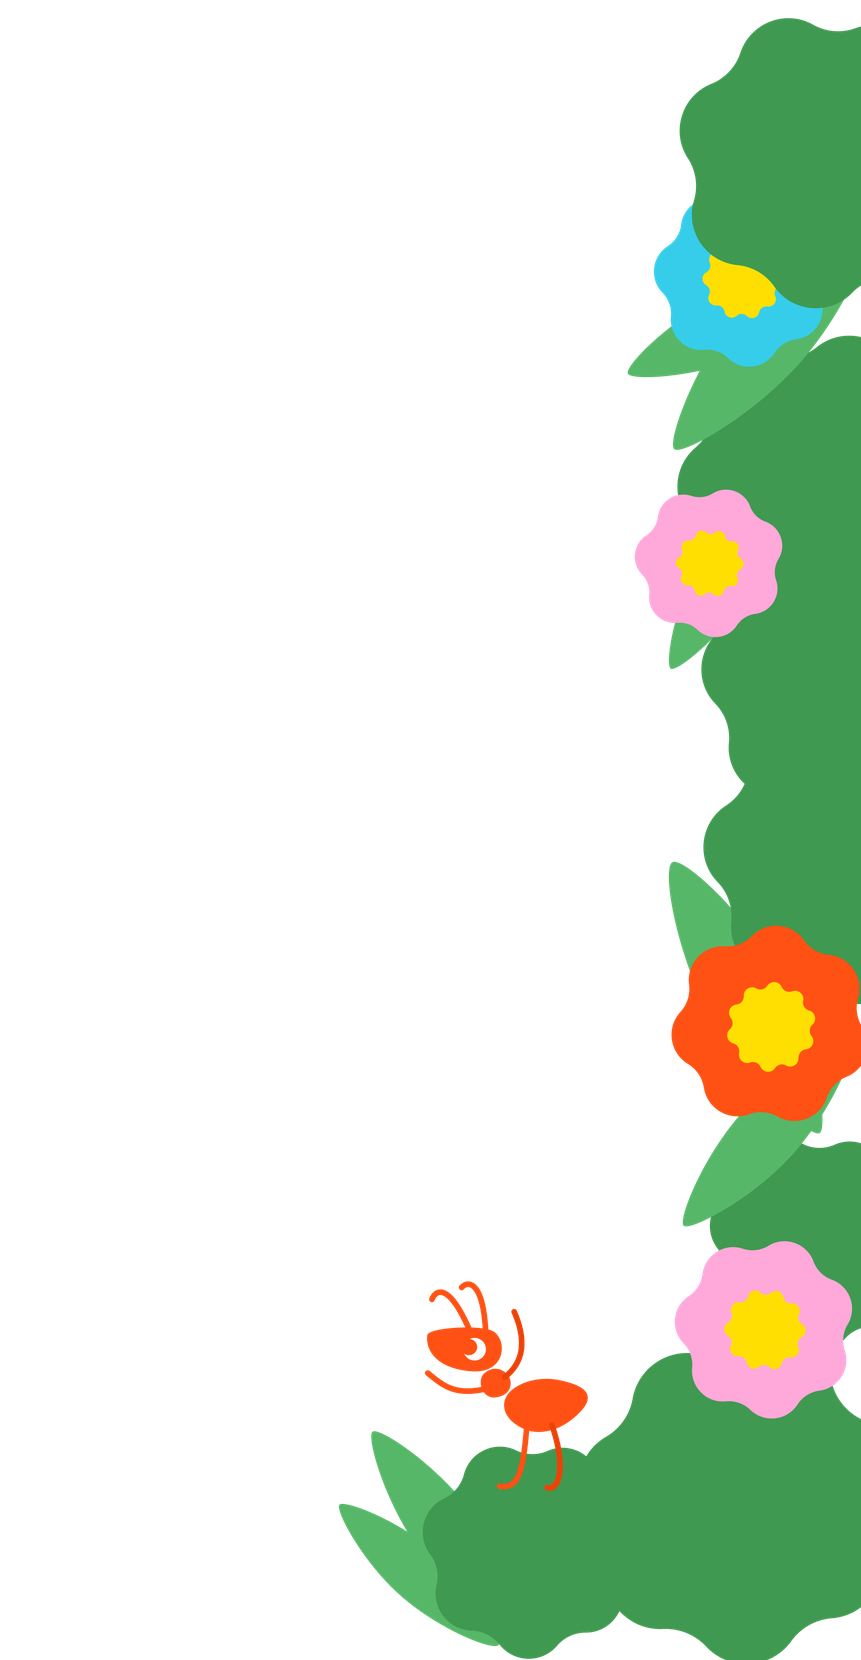
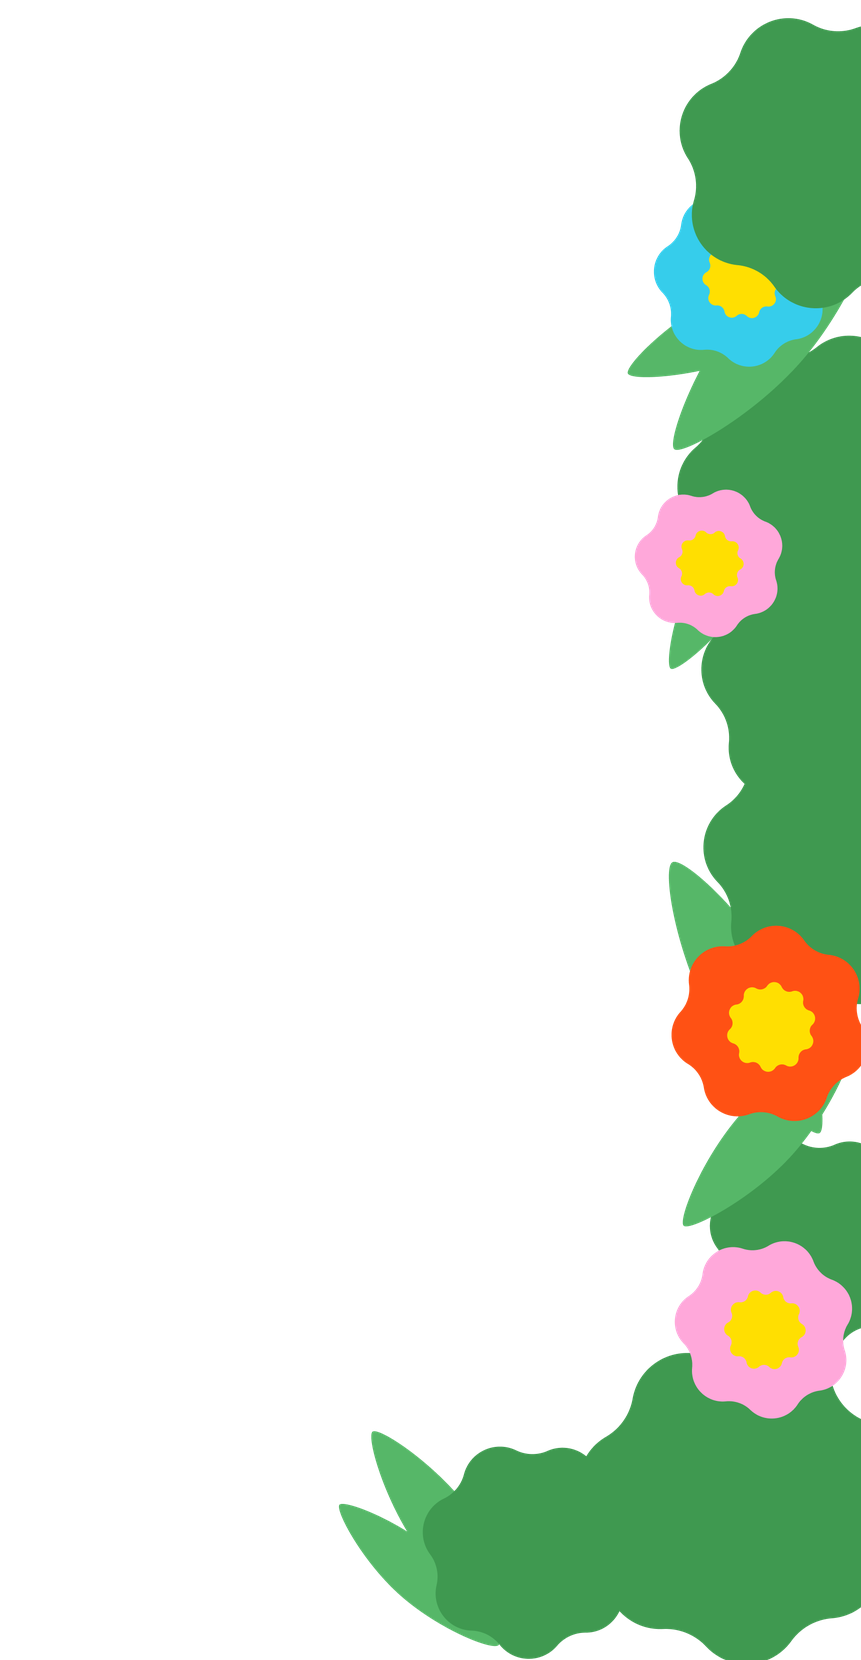
ком'юніті: нижню мурашку відчеплено в окремий шар, піднято над футером
Мурашку прибрано з фонового декору (правий-низ) і винесено в окремий елемент
.comm-ant у секції «Партнери»: піднята так, що лапки над футером і картка
monobank її не перекриває; трохи зменшена (120px).

Changed region(s): [[0.4832, 0.7681, 0.6945, 0.891], [0.5738, 0.891, 0.6039, 0.9217]]

diff --git a/css/site.css b/css/site.css
@@ -635,10 +635,10 @@ a.card:hover, a.card-link:hover { color: inherit; }
      «Стіна слави» і «Відгуки» (як у Figma). */
   --comm-spread: 5vw;
   --comm-drop: 11vw;
-  background-image: url(../assets/comm-decor-tl.png?v=1),
-                    url(../assets/comm-decor-tr.png?v=1),
-                    url(../assets/comm-decor-bl.png?v=1),
-                    url(../assets/comm-decor-br.png?v=1);
+  background-image: url(../assets/comm-decor-tl.png?v=2),
+                    url(../assets/comm-decor-tr.png?v=2),
+                    url(../assets/comm-decor-bl.png?v=2),
+                    url(../assets/comm-decor-br.png?v=2);
   background-repeat: no-repeat, no-repeat, no-repeat, no-repeat;
   background-position:
     calc(0%   - var(--comm-spread)) top,
@@ -653,6 +653,15 @@ a.card:hover, a.card-link:hover { color: inherit; }
    проміжку від margin-top футера) */
 .page-community + .site-footer { margin-top: 0; }
 @media (max-width: 1024px) { .page-community { background-image: none; } }
+
+/* нижня мурашка — окремий шар (відчеплена від фонового декору), щоб підняти її
+   над футером і не дати картці monobank її перекрити. Стоїть у правому полі
+   нижче карток. */
+.comm-ant {
+  position: absolute; right: 1.5vw; bottom: 40px;
+  width: 120px; height: auto; z-index: 2; pointer-events: none; user-select: none;
+}
+@media (max-width: 1024px) { .comm-ant { display: none; } }
 
 /* буквиця (drop-cap) інфо-картки — новий знак: білий пелюстковий блоб із «Е».
    Замінює стандартний ::first-letter prose--editorial на цьому абзаці. */

diff --git a/community.html b/community.html
@@ -10,7 +10,7 @@
 <link rel="manifest" href="assets/site.webmanifest">
 <link rel="preconnect" href="https://fonts.googleapis.com"><link rel="preconnect" href="https://fonts.gstatic.com" crossorigin>
 <link rel="stylesheet" href="https://fonts.googleapis.com/css2?family=Unbounded:wght@600;700;800&family=Inter:wght@400;500;600;700&display=swap">
-<link rel="stylesheet" href="css/site.css?v=20260528h">
+<link rel="stylesheet" href="css/site.css?v=20260528i">
 </head>
 <body>
 <header class="site-header"><div class="container site-header__inner">
@@ -142,6 +142,7 @@
   </section>
 
   <section class="section">
+    <img class="comm-ant" src="assets/comm-ant.png?v=1" alt="" aria-hidden="true">
     <div class="container">
       <div class="row-between" style="margin-bottom: var(--space-6); align-items: flex-end">
         <div>
